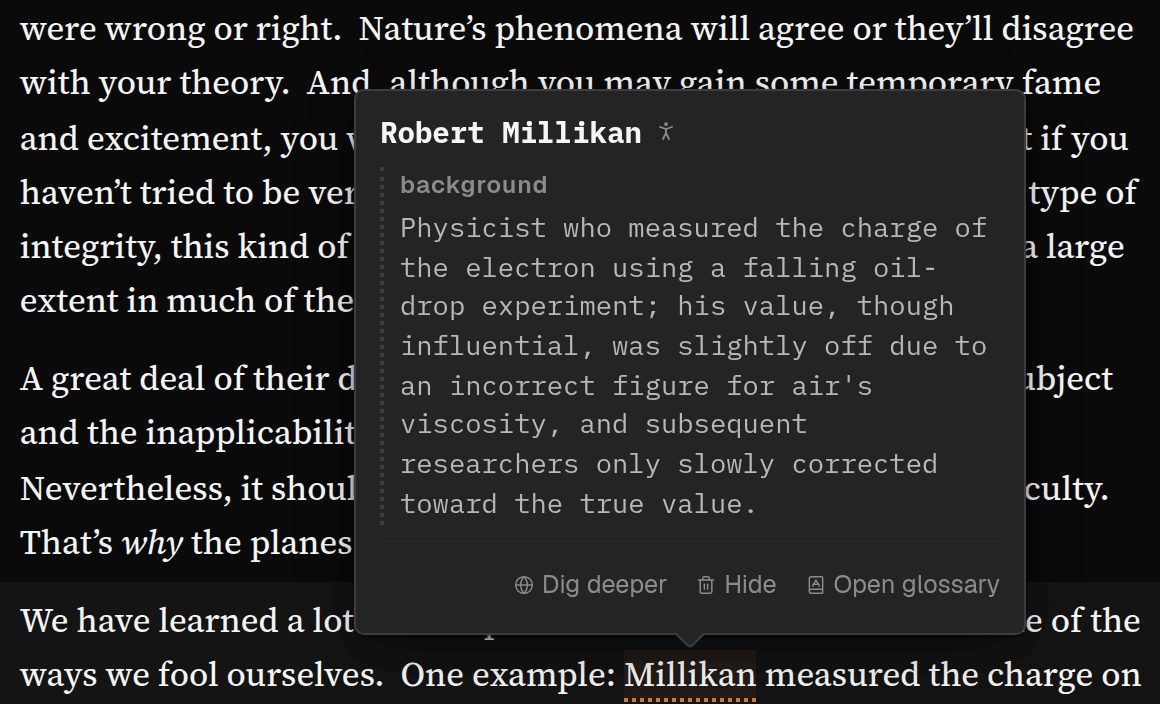
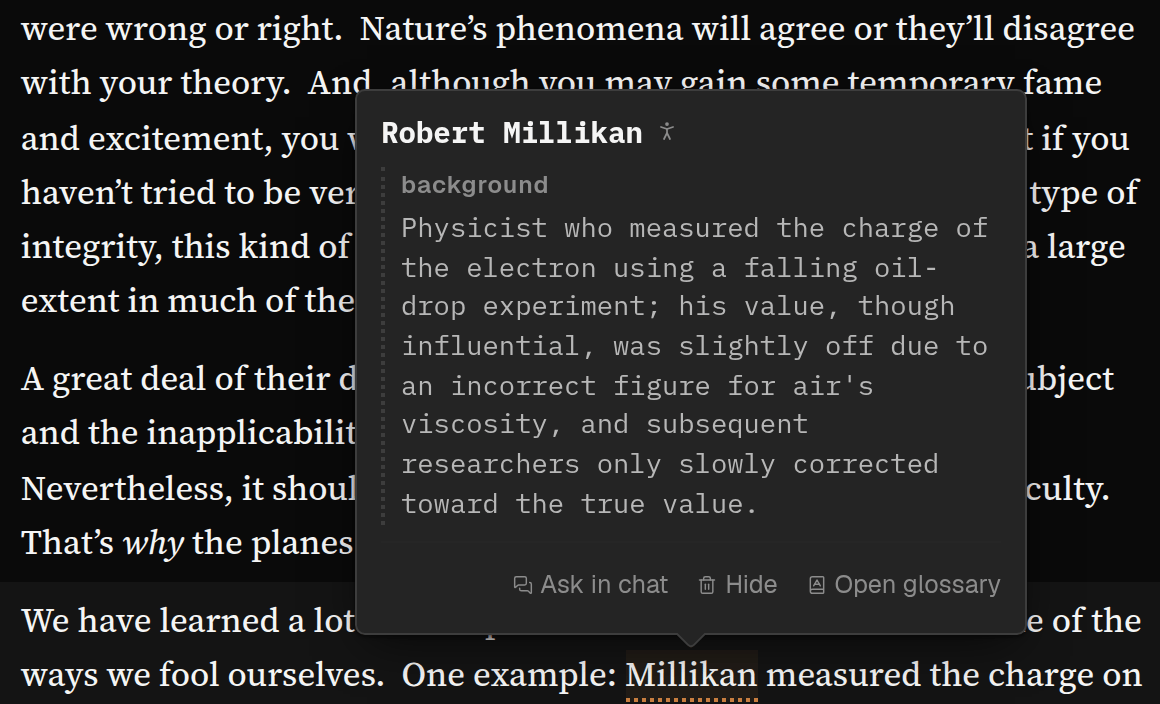
261009i: the way back clears the chat; browser pass, Help reshoots, feedback note
The browser pass found that openOrigin left ?thread= in the address. The chat then
followed the reader into the mode as the floating card, and at 390 it covered
the row the press had gone back to. Every arm now clears it in the same entry.
Five assertions went red before the fix and green after; Back still restores the
chat.

The two Help screenshots that showed Dig deeper (glossary-card, mode-citations)
are reshot, and their alt text and the Help corpus updated. The browser shots
are in the plan. The feedback note for spya-tv6wn5 ends Shipped, with
qi-ccxkybft and qi-bd6h2fnd queued for what was deferred.

diff --git a/src/web/reader/Reader.tsx b/src/web/reader/Reader.tsx
@@ -1644,10 +1644,12 @@ export function Reader({
     debate: debateParam,
     bears: bearsParam,
     debatethread: debateThreadParam,
+    thread: threadParam,
   });
   const [, setIdeaWay] = useQueryStates({
     mode: modeParam,
     idea: ideaParam,
+    thread: threadParam,
   });
   /**
    * **The way back from a chat to the item it was started from** — the line
@@ -1661,6 +1663,12 @@ export function Reader({
    * An item the mode no longer has (renamed, hidden, re-run away) opens the
    * mode on its list: each band hands an unknown focus back at once.
    *
+   * **`?thread=` goes in the same write.** Left in place, the chat follows the
+   * reader into the mode as the floating card, and on a phone that card lies
+   * over the very row the press went back to (found in the browser pass). Back
+   * restores it with the rest of the address, and the item's own mark reopens
+   * it beside the mode.
+   *
    * **Exhaustive**, so a new origin mode cannot be forgotten here: the
    * `never` arm stops compiling.
    */
@@ -1668,11 +1676,14 @@ export function Reader({
     (origin: ThreadOrigin) => {
       switch (origin.mode) {
         case "glossary":
-          /* `?term=` and the gate lowered if it hides the entry. */
+          /* `?term=` and the gate lowered if it hides the entry. The thread is
+             cleared in the same tick, which nuqs sends as one entry. */
+          void setThread(null);
           openTermInGlossary(origin.itemId);
           setTermFocus(focusOn(origin.itemId));
           return;
         case "citations":
+          void setThread(null);
           setCiteFocus(focusOn(origin.itemId));
           showBand("citations");
           return;
@@ -1682,18 +1693,18 @@ export function Reader({
           setOpenOccurrence(null);
           setIdeaFocus(focusOn(origin.itemId));
           setBandAway(false);
-          void setIdeaWay({ mode: "ideas", idea: origin.itemId }, { history: "push" });
+          void setIdeaWay({ mode: "ideas", idea: origin.itemId, thread: null }, { history: "push" });
           return;
         case "debate":
           setBandAway(false);
           if (isLensOrigin(origin)) {
             /* An angle is not in the article: the angles box is Reception's. */
-            void setDebateWay({ mode: "debate", debate: "reception" }, { history: "push" });
+            void setDebateWay({ mode: "debate", debate: "reception", thread: null }, { history: "push" });
             return;
           }
           setClaimFocus(focusOn(claimFocusKey(origin)));
           void setDebateWay(
-            { mode: "debate", debate: "claims", bears: null, debatethread: null },
+            { mode: "debate", debate: "claims", bears: null, debatethread: null, thread: null },
             { history: "push" },
           );
           return;
@@ -1703,7 +1714,7 @@ export function Reader({
         }
       }
     },
-    [openTermInGlossary, showBand, setIdeaWay, setDebateWay],
+    [openTermInGlossary, showBand, setIdeaWay, setDebateWay, setThread],
   );
   /**
    * **The quotes, and they are not a state at all** — since 2026-09-08.

diff --git a/tests/glossary-and-citations-ask-in-chat.test.tsx b/tests/glossary-and-citations-ask-in-chat.test.tsx
@@ -1108,6 +1108,7 @@ describe("the way back from a chat to its item", () => {
     await act(async () => line.click());
     await until(() => param("mode") === "glossary" && scrolled.length > 0, "Glossary, on the entry");
     expect(param("term")).toBe(QUOTED);
+    expect(param("thread"), "the chat does not float over the item it went back to").toBeNull();
     expectLandedOn(term(QUOTED));
     expect(entryButton(), "the entry is open").not.toBeNull();
     /* One Back returns to the chat. */
@@ -1121,6 +1122,7 @@ describe("the way back from a chat to its item", () => {
     await act(async () => line.click());
     await until(() => param("mode") === "citations" && scrolled.length > 0, "Citations, on the row");
     expectLandedOn(workRow(WORK));
+    expect(param("thread"), "the chat does not float over the item it went back to").toBeNull();
     await act(async () => history.back());
     await until(() => param("mode") === "chat" && param("thread") === CHAT, "one Back to the chat");
   });
@@ -1157,6 +1159,7 @@ describe("the way back from a chat to its item", () => {
     await act(async () => line.click());
     await until(() => param("mode") === "ideas" && scrolled.length > 0, "Ideas, on the idea");
     expect(param("idea")).toBe(IDEA);
+    expect(param("thread"), "the chat does not float over the item it went back to").toBeNull();
     expectLandedOn(ideaRow(IDEA));
     expect(ideaRow(IDEA)?.classList.contains("open"), "the idea is open").toBe(true);
     await act(async () => history.back());
@@ -1174,6 +1177,7 @@ describe("the way back from a chat to its item", () => {
     expect(param("debate")).toBe("claims");
     expect(param("bears"), "a filter that could hide the claim is cleared").toBeNull();
     expect(param("debatethread")).toBeNull();
+    expect(param("thread"), "the chat does not float over the item it went back to").toBeNull();
     const claim = host.querySelector<HTMLDetailsElement>(".mode-band details.dbt-claim-group");
     expectLandedOn(claim);
     expect(claim?.open).toBe(true);
@@ -1188,6 +1192,7 @@ describe("the way back from a chat to its item", () => {
     await act(async () => line.click());
     await until(() => param("mode") === "debate", "Debate");
     expect(param("debate"), "Reception is the default, omitted").toBeNull();
+    expect(param("thread"), "the chat does not float over the item it went back to").toBeNull();
     expect(scrolled).toEqual([]);
   });
 

diff --git a/src/feedback-endings.generated.ts b/src/feedback-endings.generated.ts
@@ -392,6 +392,7 @@ export const FEEDBACK_NOTE_ENDINGS: Readonly<Record<string, FeedbackEnding>> = {
   "spya-trkk64": "shipped",
   "spya-try2v7": "shipped",
   "spya-tsd470": "shipped",
+  "spya-tv6wn5": "shipped",
   "spya-tvhk2j": "shipped",
   "spya-tw6zxw": "shipped",
   "spya-u0vpys": "shipped",
@@ -548,6 +549,7 @@ export const FEEDBACK_NOTE_COMMENTS: Readonly<Record<string, string>> = {
   "spya-t6nmxt": "Needs a decision is now threads: a contents, one thread at a time with a reply box, Defer for now, the ids, your report shut, a shortcut beside the tabs. Check the reply box on your iPhone.",
   "spya-thpsnd": "Shipped: Reception and Claims, and the claims picker you chose: Claims lists the claims, you tick some or type your own, and one search checks them. Visitors to a shared article see the claims, not your checks (your answer A).",
   "spya-tsd470": "Hovering a reference entry now lists every paragraph that cites it, each a jump. A work cited directly in the text more than three times is found only three times so far; that fix is queued.",
+  "spya-tv6wn5": "Dig deeper is gone and Ask in chat stands in its place, on the hover cards too, and now on Ideas. A chat started from an item has a \"Back to …\" line that opens the mode on that item.",
   "spya-u6h6q8": "Needs a decision is now threads: a contents, one thread at a time with a reply box, Defer for now, the ids, your report shut, a shortcut beside the tabs. Check the reply box on your iPhone.",
   "spya-uc0asn": "You chose B: a signed-in visitor can add a private copy of a public article to their own shelf and use AI there. AI in place on someone else's article (C, D, E) is not for now, as you said on 2026-10-07.",
   "spya-ucftjt": "All three parts shipped: Help in the bar and as pages, Ask about Spideryarn on the Help pages, and a guide in Chat. The Help chatbot stays signed-in only for now, as you chose.",

diff --git a/src/web/help/help-images.ts b/src/web/help/help-images.ts
@@ -244,7 +244,7 @@ export const HELP_IMAGES: Readonly<Record<string, HelpImage>> = {
     shows: "Pointing at an underlined term (Millikan) until its card shows, over pure prose.",
     article: "Cargo Cult Science (cargocult-spya-rz663q)",
     window: "1440×900 at 2×",
-    taken: "2026-10-07",
+    taken: "2026-10-09",
   },
   "mode-glossary.png": {
     src: modeGlossaryPng,
@@ -276,11 +276,11 @@ export const HELP_IMAGES: Readonly<Record<string, HelpImage>> = {
   "mode-citations.png": {
     src: modeCitationsPng,
     w: 1088,
-    h: 752,
+    h: 768,
     shows: "?mode=citations, prioritised, the band alone; cropped after the second work.",
     article: "The Scaling Hypothesis (scaling-hypothesis)",
     window: "1440×900 at 2×",
-    taken: "2026-10-07",
+    taken: "2026-10-09",
   },
   "mode-skim.png": {
     src: modeSkimPng,

diff --git a/docs/plans/261009i-ask-in-chat-replaces-dig-deeper-and-a-chat-goes-back-to-its-item.md b/docs/plans/261009i-ask-in-chat-replaces-dig-deeper-and-a-chat-goes-back-to-its-item.md
@@ -6,7 +6,7 @@ queue item `qi-bvypm9bn` · builds on [261005i](261005i-chats-started-from-a-mod
 [261006j](261006j-ask-in-chat-sends-the-question.md) · the checklist is
 [chat-from-a-mode.md](../project/chat-from-a-mode.md)
 
-**Status: plan, revised after GPT Sol's review (build after fixes; all nine taken). Building.**
+**Status: built and on `dev` (2026-10-09); not deployed. Follow-ups: `qi-ccxkybft` (Dig deeper's server half, Greg's call), `qi-bd6h2fnd` (Timeline, Quotes, FAQ).**
 
 ## What Greg asked for
 
@@ -280,3 +280,48 @@ tests fail.
 Not done here: the Help page for Ideas (`src/web/help/pages/modes/ideas.md`) does not mention Ask in
 chat yet, and the browser check at 390 and 1440 is the end-of-plan pass.
 
+(Both since done: the Ideas Help page has a paragraph, and the browser pass is below.)
+
+### GPT Sol's code review — [261009i-code-review-sol.md](261009i-code-review-sol.md)
+
+Verdict *do not ship*, on F4 alone (two Help screenshots still showed Dig deeper), which the browser
+pass then reshot. Fixed by the reviewer: **F1**, a focus left pending when the reader left a mode
+before its list loaded made a later ordinary visit jump to the old item. It is now cleared when its
+mode is left, and the regression test was watched red first. **F2**: Citations' landing goes through
+`useLandOnItem` (it keeps its bar step), and the hook takes a focus only on an exact row or an
+unknown item. **F3**: stale comments.
+
+### Browser pass (Sonnet, Playwright, this worktree's dev server, 1440 and 390)
+
+- No Dig deeper on a Glossary entry, a Citations row, either hover card or Ideas. Not opened: a
+  comment's dialog, which the unit tests cover.
+- Glossary: Ask in chat lands in Chat with the question sent. *Back to "Robert Millikan" in Glossary*
+  sits above the transcript, one line at 390, with the composer on screen. The press opens Glossary
+  with the row selected and in view, and Back returns to the chat.
+- Citations: the same from a row, and from the cited-work card. A work far down the list was
+  scrolled into view.
+- Ideas: an open idea has Ask in chat. Not pressed, because the local database lacks this branch's
+  migration (below).
+- Debate: not pressed in the browser, to keep the model calls to four. The unit tests cover it.
+- Shots: [1](261009i-shot-1-glossary-ask-chat-back-line-1440.png),
+  [2](261009i-shot-2-glossary-chat-390.png), [3](261009i-shot-3-glossary-back-to-row-390.png),
+  [4](261009i-shot-4-citations-back-to-row-1440.png), [5](261009i-shot-5-cited-work-card-ask-in-chat.png),
+  [6](261009i-shot-6-ideas-open-idea-ask-in-chat.png).
+- Help images `glossary-card.png` and `mode-citations.png` reshot, with their alt text and the Help
+  corpus updated.
+
+**Found by it, and fixed: the chat followed the reader back.** `openOrigin` changed the mode but
+left `?thread=`, so the chat opened again as the floating card over the mode, and at 390 it covered
+the row the press had gone back to. Every arm now clears `?thread=` in the same entry. A
+`thread is null` assertion in each of the five way-back tests went red before the fix and green
+after. Back still restores the chat, which those tests press.
+
+Not a bug: a Citations row shows no "selected" state after the way back, because it has none (F5).
+It is scrolled into view.
+
+**The migration is not applied to the shared local database.** `db:migrate` (Target: local,
+`127.0.0.1:54362`) refused, because the ledger holds the unlanded migration of a peer worktree
+(`fbud2w92-dismiss-profile-notice`), and database.md leaves that for the peer to resolve. Until then,
+an Ideas Ask in chat on the local dev server hits the old CHECK. The test suite builds its own
+database from this tree's migrations, where the new CHECKs are tested. Production gets the
+migration with the deploy.

diff --git a/docs/user-feedback/261009_0114-ask-in-chat-replaces-dig-deeper-and-the-way-back.md b/docs/user-feedback/261009_0114-ask-in-chat-replaces-dig-deeper-and-the-way-back.md
@@ -1,0 +1,45 @@
+---
+reports: spya-tv6wn5
+ending: shipped
+comment: Dig deeper is gone and Ask in chat stands in its place, on the hover cards too, and now on Ideas. A chat started from an item has a "Back to …" line that opens the mode on that item.
+---
+# Ask in chat replaces Dig deeper, and a chat goes back to its item
+
+Report `spya-tv6wn5` (#504), SPIDERYARN-READING2-FF, Greg (admin, provenance proved by
+`feedback-reporter.ts`), 2026-10-09 01:14 UTC, a suggestion, filed from
+`/read/arxiv-1706-03762-spya-wyt7j0?mode=chat…`:
+
+> I'm tempted to get rid of the dig deeper button and just replace it with the ask in chat button.
+> So, in other words, you know, if I'm in a citation or perhaps even the glossary or the ideas or
+> anything like that, there's just a button say ask in chat that kicks off a chat thread about that
+> particular topic, perhaps prompted differently depending on the mode. I think we already do this
+> with citations, and I'm just suggesting we do it elsewhere, and that we don't need the dig deeper
+> button. The only way to improve this, though, would be if such chats had a way to go back to the
+> mode that generated them. So, for example, if I'm in citations mode, if I choose dig deeper, then I
+> want to be able to go, and now I'm in a chat thread, I want to be able to go back to the citations
+> mode, and also sort of highlight the, you know, block or whatever that the chat is relevant to. I
+> guess that's slightly less important if there's an easy way to go back to the citation mode entry,
+> because that probably has a way to highlight the block. But it might still be nice.
+
+**Shipped**, to `dev`, in three parts:
+
+- **Dig deeper is gone** from a Glossary entry, a Citations row, both hover cards in the prose,
+  Skim's term chip and a comment. **Ask in chat** stands where it stood, and is new on the two hover
+  cards and the chip. Answers Dig deeper already kept still show. Each mode's chat already opens with
+  its own question (a term, a cited work, a claim), so "prompted differently" was there.
+- **Ideas has Ask in chat**, with the same mark that reopens the chat beside the mode.
+- **The way back.** A chat started from an item shows *Back to "…" in Citations* (or Glossary,
+  Debate, Ideas) above the conversation. A press opens that mode with the item's row scrolled into
+  view. The row's own passage link highlights the block. On arrival the prose does not move by
+  itself, because on a phone the mode covers it and the highlight would be missed.
+
+**What went with Dig deeper.** On Citations it could also give a row a real link, judge influence
+from the web and read the cited paper. A chat finds the same things but does not write them back
+onto the row. The server half is kept, unused, and that choice is Greg's: delete it, or turn it into
+a tool a chat can use to fill the row in (`qi-ccxkybft`).
+
+**Still queued**: Ask in chat on Timeline, Quotes and FAQ (`qi-bd6h2fnd`). FAQ's questions get new
+ids on every run, so a chat could never find its question again.
+
+The plan, both GPT Sol reviews and the checks:
+[261009i](../plans/261009i-ask-in-chat-replaces-dig-deeper-and-a-chat-goes-back-to-its-item.md).

diff --git a/docs/project/chat-from-a-mode.md b/docs/project/chat-from-a-mode.md
@@ -92,6 +92,11 @@ A press calls `openOrigin` in [`Reader.tsx`](../../src/web/reader/Reader.tsx), o
 prose: on a phone the band lies over it, and the flash would be held until the band moved (GPT
 Sol's F4 on the plan). The row's own block link does that, with the phone handling it already has.
 
+**Every arm clears `?thread=` in the same entry.** Left in place, the chat followed the reader into
+the mode as the floating card, and on a phone it covered the row the press had gone back to (seen
+in the browser pass). Back restores the chat with the rest of the address, and the item's own mark
+reopens it beside the mode.
+
 **A focus** is the one-shot that Citations had first (`CiteFocus`), now
 [`item-focus.ts`](../../src/web/item-focus.ts) § `ItemFocus` and `useLandOnItem`, one piece of
 state per band in `Reader`. The band scrolls the row (`data-term-id`, `data-citation-id`,

diff --git a/src/web/help/pages/modes/glossary.md b/src/web/help/pages/modes/glossary.md
@@ -11,7 +11,7 @@ and keeps what the piece tells you about them separate from background supplied 
 made, the terms are underlined in the text in every mode, so an explanation is a moment away while
 you read.
 
-![A glossary card for Robert Millikan over the article: a background definition, and buttons for Dig deeper, Hide and Open glossary](../images/glossary-card.png "Point at an underlined term for its card. This one is background: what the AI knows, not what the article says.")
+![A glossary card for Robert Millikan over the article: a background definition, and buttons for Ask in chat, Hide and Open glossary](../images/glossary-card.png "Point at an underlined term for its card. This one is background: what the AI knows, not what the article says.")
 
 ## When to use it
 

diff --git a/src/web/help/pages/modes/citations.md b/src/web/help/pages/modes/citations.md
@@ -11,7 +11,7 @@ AI’s estimates of how much the piece relies on them and how influential they a
 article’s own link where it gave one, and a Scholar search or a matching link found later for the
 rest.
 
-![The Citations panel: a threshold slider hiding 7 of 58 citations, then two works, each with its bars, Dig deeper and Ask in chat](../images/mode-citations.png "Citations, prioritised: each work with what we have read of it, its two bars, and where the piece first cites it.")
+![The Citations panel: a threshold slider hiding 7 of 58 citations, then two works, each with its bars and an Ask in chat button](../images/mode-citations.png "Citations, prioritised: each work with what we have read of it, its two bars, and where the piece first cites it.")
 
 ## When to use it
 
